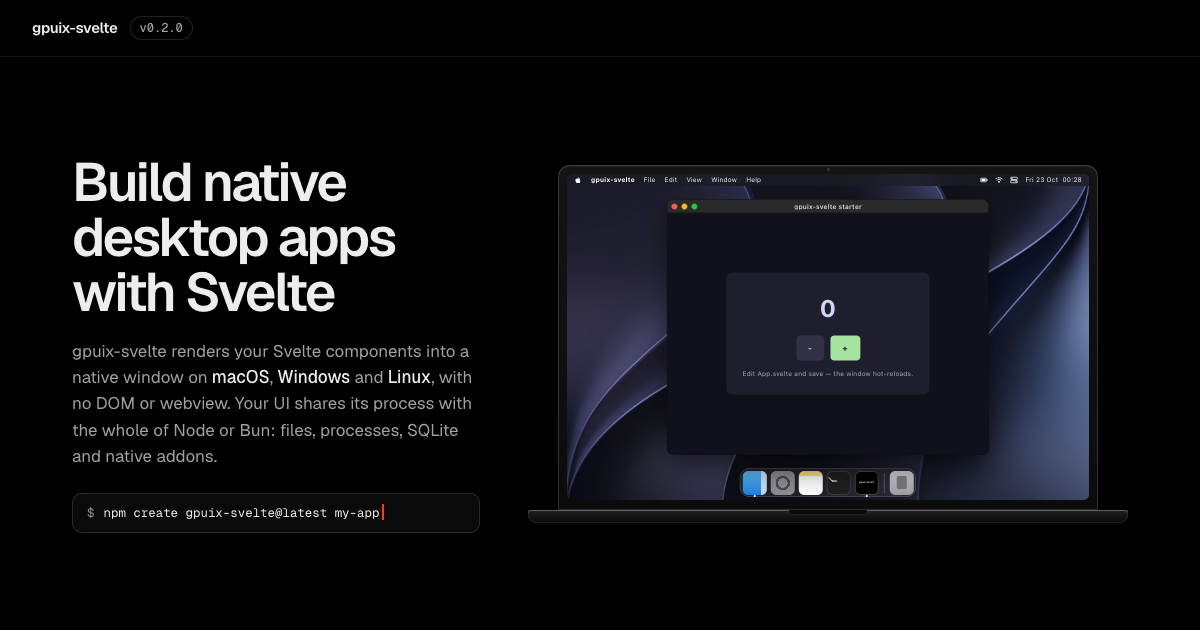
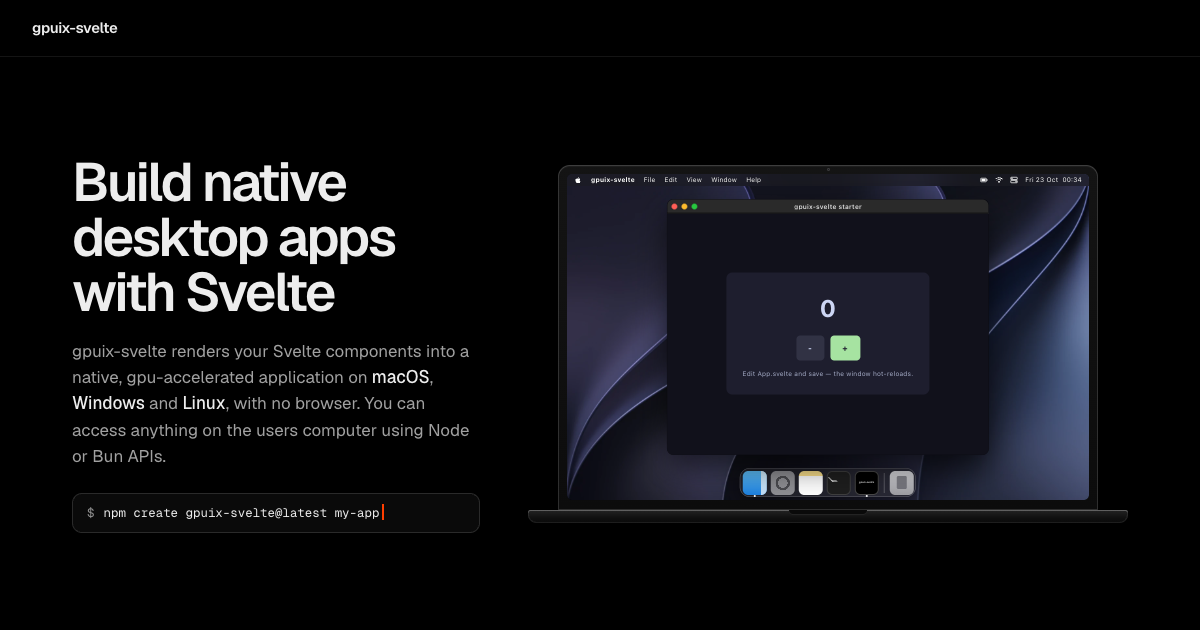
wip

Changed region(s): [[0.0617, 0.573, 0.4008, 0.754], [0.1233, 0.0302, 0.1542, 0.0603]]

diff --git a/homepage/logos/index.html b/homepage/logos/index.html
@@ -1,0 +1,162 @@
+<!doctype html>
+<html lang="en">
+<head>
+<meta charset="utf-8">
+<meta name="viewport" content="width=device-width, initial-scale=1">
+<title>gpuix-svelte · Logo candidates</title>
+<meta name="robots" content="noindex">
+<meta name="color-scheme" content="dark">
+<link rel="icon" href="data:,">
+<style>
+@font-face{font-family:Geist;src:url(../assets/fonts/Geist-Variable.woff2) format("woff2");font-weight:100 900;font-display:swap}
+@font-face{font-family:"Geist Mono";src:url(../assets/fonts/GeistMono-Variable.woff2) format("woff2");font-weight:100 900;font-display:swap}
+:root{--bg:#000;--s1:#0a0a0a;--line:rgba(255,255,255,.08);--line-2:rgba(255,255,255,.13);--text:#ededed;--text-2:#a1a1a1;--text-3:#8f8f8f;--accent:#ff3e00;--sans:Geist,ui-sans-serif,system-ui,sans-serif;--mono:"Geist Mono",ui-monospace,monospace}
+*{box-sizing:border-box}
+body{margin:0;background:var(--bg);color:var(--text);font:400 15px/1.6 var(--sans);-webkit-font-smoothing:antialiased}
+a{color:inherit}
+.wrap{max-width:1200px;margin:0 auto;padding:0 32px}
+.top{border-bottom:1px solid var(--line)}
+.nav{display:flex;align-items:center;justify-content:space-between;height:56px}
+.nav a{font-weight:600;font-size:15px;letter-spacing:-.02em;text-decoration:none}
+.nav span{font-size:14px;color:var(--text-2)}
+h1{margin:48px 0 12px;font-size:clamp(30px,3.4vw,44px);line-height:1.1;letter-spacing:-.036em;font-weight:600}
+.lead{max-width:44em;margin:0;color:var(--text-2);text-wrap:pretty}
+.row{display:flex;flex-wrap:wrap;align-items:center;gap:14px;margin:36px 0 56px;padding:18px 20px;border:1px solid var(--line-2);border-radius:12px;background:var(--s1)}
+.row b{flex:0 0 100%;font-size:12px;font-weight:500;letter-spacing:.02em;text-transform:uppercase;color:var(--text-3)}
+.row svg{width:24px;height:24px;color:#fff}
+.row i{display:grid;place-items:center;width:40px;height:40px;border-radius:9px;background:#000;border:1px solid var(--line)}
+.row i.lt{background:#fff;border-color:#ddd}
+.row i.lt svg{color:#111}
+.grid{display:grid;grid-template-columns:repeat(2,minmax(0,1fr));gap:28px;margin:0 0 80px;padding:0;list-style:none}
+.card{display:grid;grid-template-columns:auto minmax(0,1fr);gap:16px 24px;padding:24px;border:1px solid var(--line-2);border-radius:14px;background:var(--s1)}
+.tiles{display:grid;grid-template-columns:repeat(2,auto);gap:10px;align-content:start}
+.tile{display:grid;place-items:center;width:128px;height:128px;border-radius:24px;background:#000;border:1px solid var(--line-2);color:#fff}
+.tile svg{width:96px;height:96px}
+.tile.lt{background:#fff;border-color:#ddd;color:#111}
+.small{grid-column:1/-1;display:flex;align-items:center;gap:14px;height:40px;padding:0 12px;border-radius:9px;background:#000;border:1px solid var(--line);color:#fff}
+.small svg{display:block;color:#fff}
+.small .s32{width:32px;height:32px}
+.small .s16{width:16px;height:16px}
+.small em{font:400 11px/1 var(--mono);color:var(--text-3);font-style:normal}
+.small i{width:1px;height:20px;background:var(--line-2)}
+.card h2{margin:4px 0 6px;font-size:19px;line-height:1.25;letter-spacing:-.02em;font-weight:600}
+.card h2 small{margin-right:10px;font:500 12px/1 var(--mono);color:var(--text-3);letter-spacing:0}
+.card p{margin:0 0 10px;font-size:14px;line-height:1.55;color:var(--text-2);text-wrap:pretty}
+.card p:last-child{margin:0}
+.card p b{font-weight:500;color:var(--text)}
+.foot{padding:28px 0 48px;border-top:1px solid var(--line);font-size:13px;color:var(--text-3)}
+@media (max-width:899px){
+.wrap{padding:0 16px}
+.grid{grid-template-columns:minmax(0,1fr)}
+}
+@media (max-width:520px){
+.card{grid-template-columns:minmax(0,1fr)}
+.tiles{grid-template-columns:repeat(2,1fr)}
+.tile{width:100%;height:auto;aspect-ratio:1}
+}
+</style>
+</head>
+<body>
+<svg width="0" height="0" style="position:absolute" aria-hidden="true">
+<symbol id="l1" viewBox="0 0 64 64"><rect x="6" y="10" width="52" height="44" rx="9" fill="#ff3e00"/><path d="M6 23h52" stroke="currentColor" stroke-width="2.5" stroke-opacity=".9"/><circle cx="14.5" cy="16.5" r="2.4" fill="currentColor"/><circle cx="22" cy="16.5" r="2.4" fill="currentColor"/><circle cx="29.5" cy="16.5" r="2.4" fill="currentColor"/></symbol>
+<symbol id="l2" viewBox="0 0 64 64"><path d="M32 11 56 51H8Z" fill="#ff3e00" stroke="#ff3e00" stroke-width="7" stroke-linejoin="round"/></symbol>
+<symbol id="l3" viewBox="0 0 64 64"><rect x="24" y="7" width="32" height="32" rx="7" fill="none" stroke="currentColor" stroke-opacity=".35" stroke-width="3"/><rect x="16" y="15" width="32" height="32" rx="7" fill="none" stroke="currentColor" stroke-opacity=".7" stroke-width="3"/><rect x="8" y="23" width="32" height="32" rx="7" fill="#ff3e00"/></symbol>
+<symbol id="l4" viewBox="0 0 64 64"><circle cx="29" cy="27" r="13" fill="none" stroke="#ff3e00" stroke-width="8"/><path d="M42 27v17c0 9-6 13-15 13" fill="none" stroke="#ff3e00" stroke-width="8" stroke-linecap="round"/></symbol>
+<symbol id="l5" viewBox="0 0 64 64"><rect x="2" y="2" width="60" height="60" rx="14" fill="#000"/><rect x="2.75" y="2.75" width="58.5" height="58.5" rx="13.25" fill="none" stroke="#fff" stroke-opacity=".32" stroke-width="1.5"/><text x="32" y="35.2" text-anchor="middle" font-family="Geist, ui-sans-serif, system-ui, sans-serif" font-weight="600" font-size="8.6" textLength="46" lengthAdjust="spacingAndGlyphs" fill="#fff">gpuix-svelte</text></symbol>
+<symbol id="l6" viewBox="0 0 64 64"><path d="M19 15 7 32l12 17M45 15l12 17-12 17" fill="none" stroke="currentColor" stroke-width="5.5" stroke-linecap="round" stroke-linejoin="round"/><rect x="24" y="21" width="16" height="22" rx="4" fill="#ff3e00"/></symbol>
+<symbol id="l7" viewBox="0 0 64 64"><rect x="9" y="9" width="21" height="21" rx="5.5" fill="currentColor"/><rect x="34" y="9" width="21" height="21" rx="5.5" fill="currentColor"/><rect x="9" y="34" width="21" height="21" rx="5.5" fill="currentColor"/><rect x="34" y="34" width="21" height="21" rx="5.5" fill="#ff3e00"/></symbol>
+<symbol id="l8" viewBox="0 0 64 64"><clipPath id="l8c"><rect x="6" y="6" width="52" height="52" rx="13"/></clipPath><g clip-path="url(#l8c)"><rect x="6" y="6" width="52" height="52" fill="#ff3e00"/><path d="M6 6h52L6 58Z" fill="currentColor"/></g></symbol>
+<symbol id="l9" viewBox="0 0 64 64"><path d="M38.8 13.2A20 20 0 1 1 19.1 16.7" fill="none" stroke="#ff3e00" stroke-width="7" stroke-linecap="round"/><path d="M33.5 5.5 43 12.5l-6.5 9" fill="none" stroke="#ff3e00" stroke-width="7" stroke-linecap="round" stroke-linejoin="round"/><rect x="24" y="24" width="16" height="16" rx="4" fill="currentColor"/></symbol>
+<symbol id="l10" viewBox="0 0 64 64"><path d="M15 7v40l11-9.5L33.5 55l8.5-3.8-7.5-17H47Z" fill="#ff3e00" stroke="#ff3e00" stroke-width="4" stroke-linejoin="round"/></symbol>
+</svg>
+
+<header class="top"><div class="wrap nav"><a href="../">gpuix-svelte</a><span>Logo candidates</span></div></header>
+
+<main class="wrap">
+<h1>Ten marks for gpuix-svelte</h1>
+<p class="lead">Each one is a single SVG, drawn so it survives a 16 px favicon, a 512 px app icon and a monochrome print. Neutral parts use the surrounding text colour, so the same file works on black and on white; the accent is Svelte’s orange, #ff3e00. Pick one and the rest get deleted.</p>
+
+<div class="row" aria-label="All ten at 24 pixels">
+<b>At a glance</b>
+<i><svg><use href="#l1"/></svg></i><i><svg><use href="#l2"/></svg></i><i><svg><use href="#l3"/></svg></i><i><svg><use href="#l4"/></svg></i><i><svg><use href="#l5"/></svg></i><i><svg><use href="#l6"/></svg></i><i><svg><use href="#l7"/></svg></i><i><svg><use href="#l8"/></svg></i><i><svg><use href="#l9"/></svg></i><i><svg><use href="#l10"/></svg></i>
+<i class="lt"><svg><use href="#l1"/></svg></i><i class="lt"><svg><use href="#l2"/></svg></i><i class="lt"><svg><use href="#l3"/></svg></i><i class="lt"><svg><use href="#l4"/></svg></i><i class="lt"><svg><use href="#l5"/></svg></i><i class="lt"><svg><use href="#l6"/></svg></i><i class="lt"><svg><use href="#l7"/></svg></i><i class="lt"><svg><use href="#l8"/></svg></i><i class="lt"><svg><use href="#l9"/></svg></i><i class="lt"><svg><use href="#l10"/></svg></i>
+</div>
+
+<ul class="grid">
+
+<li class="card">
+<div class="tiles"><div class="tile"><svg><use href="#l1"/></svg></div><div class="tile lt"><svg><use href="#l1"/></svg></div><div class="small"><svg class="s32"><use href="#l1"/></svg><i></i><svg class="s16"><use href="#l1"/></svg><em>32 / 16 px</em></div></div>
+<div><h2><small>01</small>Window</h2>
+<p><b>A native window, filled with Svelte orange.</b> The title bar and three dots are the one shape every desktop user reads as “an app window”, and the orange body says what is inside it.</p>
+<p>It is literal, which is its strength: the project’s whole pitch is that Svelte ends up in a real window. The dots still read at 16 px. The risk is looking like a generic “desktop app” icon rather than a brand.</p></div>
+</li>
+
+<li class="card">
+<div class="tiles"><div class="tile"><svg><use href="#l2"/></svg></div><div class="tile lt"><svg><use href="#l2"/></svg></div><div class="small"><svg class="s32"><use href="#l2"/></svg><i></i><svg class="s16"><use href="#l2"/></svg><em>32 / 16 px</em></div></div>
+<div><h2><small>02</small>Triangle</h2>
+<p><b>The GPU’s one primitive.</b> Everything GPUI paints is triangles, and a single orange triangle is the most honest way to say “drawn on the GPU”. It is also a delta, the symbol for change, which is what a reactive framework ships every frame.</p>
+<p>Scales to any size and stays one colour. It is also the most anonymous of the ten: many graphics projects use a triangle, so it needs the wordmark next to it to be recognisable.</p></div>
+</li>
+
+<li class="card">
+<div class="tiles"><div class="tile"><svg><use href="#l3"/></svg></div><div class="tile lt"><svg><use href="#l3"/></svg></div><div class="small"><svg class="s32"><use href="#l3"/></svg><i></i><svg class="s16"><use href="#l3"/></svg><em>32 / 16 px</em></div></div>
+<div><h2><small>03</small>Panes</h2>
+<p><b>Three layers, the front one solid.</b> Component, shadow tree, native window: the mark draws the pipeline as depth, with the two outlines fading back and the orange pane in front being the one you can touch.</p>
+<p>Reads as stacked windows too, which fits a desktop toolkit. It has the most parts, and at 16 px the back outlines blur into a halo, so the favicon would be the front square alone.</p></div>
+</li>
+
+<li class="card">
+<div class="tiles"><div class="tile"><svg><use href="#l4"/></svg></div><div class="tile lt"><svg><use href="#l4"/></svg></div><div class="small"><svg class="s32"><use href="#l4"/></svg><i></i><svg class="s16"><use href="#l4"/></svg><em>32 / 16 px</em></div></div>
+<div><h2><small>04</small>Monogram g</h2>
+<p><b>A geometric lowercase g.</b> Ring plus hook, two strokes of equal weight, in the spirit of Geist, the typeface the site is set in. The first letter of gpuix and nothing else.</p>
+<p>Ownable and quiet; a letter mark is the usual choice for a library. It says nothing about windows or GPUs, so it leans on the name for meaning, and the hook thins out at 16 px.</p></div>
+</li>
+
+<li class="card">
+<div class="tiles"><div class="tile"><svg><use href="#l5"/></svg></div><div class="tile lt"><svg><use href="#l5"/></svg></div><div class="small"><svg class="s32"><use href="#l5"/></svg><i></i><svg class="s16"><use href="#l5"/></svg><em>32 / 16 px</em></div></div>
+<div><h2><small>05</small>Wordmark tile</h2>
+<p><b>The name on a black square.</b> This is what the site already uses for the favicon and for the app icons in the Shipping section, so choosing it changes nothing and keeps the mark and the name identical.</p>
+<p>Unambiguous at 48 px and above, where the text is legible; below that it becomes a black square with a grey smudge. No colour, which is either restraint or a missed chance, depending on taste.</p></div>
+</li>
+
+<li class="card">
+<div class="tiles"><div class="tile"><svg><use href="#l6"/></svg></div><div class="tile lt"><svg><use href="#l6"/></svg></div><div class="small"><svg class="s32"><use href="#l6"/></svg><i></i><svg class="s16"><use href="#l6"/></svg><em>32 / 16 px</em></div></div>
+<div><h2><small>06</small>Brackets</h2>
+<p><b>Markup, with a window where the tag name goes.</b> The angle brackets are the Svelte side (you write components), the orange block between them is the native side (you get a window). Read left to right it is the whole renderer in one glyph.</p>
+<p>Developers decode brackets instantly, and it is the only candidate that shows both halves of the project. At 16 px the brackets thin to hairlines, so the favicon needs a heavier cut.</p></div>
+</li>
+
+<li class="card">
+<div class="tiles"><div class="tile"><svg><use href="#l7"/></svg></div><div class="tile lt"><svg><use href="#l7"/></svg></div><div class="small"><svg class="s32"><use href="#l7"/></svg><i></i><svg class="s16"><use href="#l7"/></svg><em>32 / 16 px</em></div></div>
+<div><h2><small>07</small>Tiles</h2>
+<p><b>Four panes, one lit.</b> A window grid, a flexbox layout, GPU tiles: the two-by-two reads as all of them, and the single orange tile marks the one thing that is different, your Svelte component.</p>
+<p>The most robust of the ten at small sizes, since it is four blobs. It sits close to the Windows logo and to a dozen dashboard products, which is the reason to be careful with it.</p></div>
+</li>
+
+<li class="card">
+<div class="tiles"><div class="tile"><svg><use href="#l8"/></svg></div><div class="tile lt"><svg><use href="#l8"/></svg></div><div class="small"><svg class="s32"><use href="#l8"/></svg><i></i><svg class="s16"><use href="#l8"/></svg><em>32 / 16 px</em></div></div>
+<div><h2><small>08</small>Split square</h2>
+<p><b>One square, two halves.</b> JavaScript and the GPU share one process, and the diagonal is the batch boundary between them: the neutral half is yours, the orange half is drawn. It is an app icon shape by construction.</p>
+<p>Bold, flat and impossible to misrender at any size. It is also the most abstract, so it carries no hint of windows or Svelte beyond the colour.</p></div>
+</li>
+
+<li class="card">
+<div class="tiles"><div class="tile"><svg><use href="#l9"/></svg></div><div class="tile lt"><svg><use href="#l9"/></svg></div><div class="small"><svg class="s32"><use href="#l9"/></svg><i></i><svg class="s16"><use href="#l9"/></svg><em>32 / 16 px</em></div></div>
+<div><h2><small>09</small>Reload</h2>
+<p><b>Save, and the window comes back.</b> An orange arc around a small window: hot reload, the first thing the starter shows you, and the frame loop that redraws every tick.</p>
+<p>Friendly and dynamic, and the arrow survives 16 px better than expected. The shape is shared with every “refresh” button on earth, so on its own it reads as an action, not a product.</p></div>
+</li>
+
+<li class="card">
+<div class="tiles"><div class="tile"><svg><use href="#l10"/></svg></div><div class="tile lt"><svg><use href="#l10"/></svg></div><div class="small"><svg class="s32"><use href="#l10"/></svg><i></i><svg class="s16"><use href="#l10"/></svg><em>32 / 16 px</em></div></div>
+<div><h2><small>10</small>Pointer</h2>
+<p><b>The desktop’s own cursor, in orange.</b> Nothing says “not a web page” like the arrow that lives outside the browser. It points at the one fact the headline makes: these are desktop apps.</p>
+<p>Instantly recognisable and strong at every size. Its weakness is that it is borrowed: the arrow belongs to the operating system, so it looks like a tool for automation or remote control as readily as a UI framework.</p></div>
+</li>
+
+</ul>
+</main>
+
+<footer class="foot"><div class="wrap">A working page for picking the mark. Not linked from the site, and <code>noindex</code>.</div></footer>
+</body>
+</html>

diff --git a/scripts/docs.ts b/scripts/docs.ts
@@ -2,10 +2,13 @@
 // coloured in the browser by docs/assets/prism.js, a vendored Prism build. Beside each page goes a
 // standalone markdown copy, indexed by llms.txt (https://llmstxt.org) for coding agents. The
 // homepage (homepage/) is copied to the root, so the README renders as overview.html. --serve then
-// serves dist/docs on PORT (default 4321) and opens it in the browser.
+// serves dist/docs on PORT (default 4321), opens it in the browser (--no-open skips that) and
+// rebuilds whenever README.md, docs/, homepage/ or this script changes: the parent only watches
+// and restarts a child (--serve-child) that builds and serves, so an edit to the template here
+// takes effect too and a failed build just waits for the next save.
 
-import { spawn } from 'node:child_process';
-import { copyFileSync, cpSync, createReadStream, existsSync, mkdirSync, readdirSync, readFileSync, rmSync, statSync, writeFileSync } from 'node:fs';
+import { spawn, type ChildProcess } from 'node:child_process';
+import { copyFileSync, cpSync, createReadStream, existsSync, mkdirSync, readdirSync, readFileSync, rmSync, statSync, watch, writeFileSync } from 'node:fs';
 import { createServer } from 'node:http';
 import type { AddressInfo } from 'node:net';
 import { basename, extname, join, posix, sep } from 'node:path';
@@ -376,27 +379,85 @@ ${next ? `<a class="next" href="${next.name}.html" rel="next"><span>Next</span>$
 `;
 }
 
-rmSync(out_dir, { recursive: true, force: true });
-mkdirSync(out_dir, { recursive: true });
-for (const p of PAGES) {
-	writeFileSync(join(out_dir, `${p.name}.html`), page(p, render(p.source)));
-	writeFileSync(join(out_dir, `${p.name}.md`), markdown(p.source));
+function build() {
+	rmSync(out_dir, { recursive: true, force: true });
+	mkdirSync(out_dir, { recursive: true });
+	for (const p of PAGES) {
+		writeFileSync(join(out_dir, `${p.name}.html`), page(p, render(p.source)));
+		writeFileSync(join(out_dir, `${p.name}.md`), markdown(p.source));
+	}
+	writeFileSync(join(out_dir, 'llms.txt'), llms_txt());
+	writeFileSync(join(out_dir, 'llms-full.txt'), PAGES.map((p) => markdown(p.source).trim()).join('\n\n---\n\n') + '\n');
+	copyFileSync(join(root, 'docs/assets/prism.js'), join(out_dir, 'prism.js'));
+	copyFileSync(join(root, 'docs/assets/og-docs.png'), join(out_dir, 'og-docs.png'));
+	cpSync(join(root, 'docs/assets/fonts'), join(out_dir, 'fonts'), { recursive: true });
+	// A name the homepage shares with the docs output fails the build instead of silently replacing one of them.
+	for (const entry of readdirSync(join(root, 'homepage')).filter((e) => !e.startsWith('.'))) {
+		if (existsSync(join(out_dir, entry))) throw new Error(`[docs] homepage/${entry} collides with the docs output`);
+		cpSync(join(root, 'homepage', entry), join(out_dir, entry), { recursive: true, filter: (src) => !basename(src).startsWith('.') });
+	}
+	console.log(`[docs] ${PAGES.length} pages, their markdown and llms.txt, with homepage/ at the root → ${out_dir}`);
 }
-writeFileSync(join(out_dir, 'llms.txt'), llms_txt());
-writeFileSync(join(out_dir, 'llms-full.txt'), PAGES.map((p) => markdown(p.source).trim()).join('\n\n---\n\n') + '\n');
-copyFileSync(join(root, 'docs/assets/prism.js'), join(out_dir, 'prism.js'));
-copyFileSync(join(root, 'docs/assets/og-docs.png'), join(out_dir, 'og-docs.png'));
-cpSync(join(root, 'docs/assets/fonts'), join(out_dir, 'fonts'), { recursive: true });
-// A name the homepage shares with the docs output fails the build instead of silently replacing one of them.
-for (const entry of readdirSync(join(root, 'homepage')).filter((e) => !e.startsWith('.'))) {
-	if (existsSync(join(out_dir, entry))) throw new Error(`[docs] homepage/${entry} collides with the docs output`);
-	cpSync(join(root, 'homepage', entry), join(out_dir, entry), { recursive: true, filter: (src) => !basename(src).startsWith('.') });
+
+if (process.argv.includes('--serve')) {
+	supervise();
+} else {
+	build();
+	if (process.argv.includes('--serve-child')) serve(process.argv.includes('--open'));
 }
-console.log(`[docs] ${PAGES.length} pages, their markdown and llms.txt, with homepage/ at the root → ${out_dir}`);
 
-if (process.argv.includes('--serve')) serve();
+function supervise() {
+	const script = fileURLToPath(import.meta.url);
+	let child: ChildProcess | undefined;
+	let timer: ReturnType<typeof setTimeout> | undefined;
+	let busy = false;
+	let again = false;
+	const start = (open: boolean) => {
+		child = spawn(process.execPath, [script, '--serve-child', ...(open ? ['--open'] : [])], { stdio: 'inherit' });
+	};
+	const cycle = async () => {
+		if (busy) {
+			again = true;
+			return;
+		}
+		busy = true;
+		console.log('[docs] change detected, rebuilding');
+		// The port is free only once the old child has exited.
+		const old = child;
+		if (old && old.exitCode === null) {
+			const gone = new Promise((r) => old.once('exit', r));
+			old.kill();
+			await gone;
+		}
+		start(false);
+		busy = false;
+		if (again) {
+			again = false;
+			void cycle();
+		}
+	};
+	const restart = () => {
+		clearTimeout(timer);
+		timer = setTimeout(cycle, 300);
+	};
+	for (const path of ['README.md', 'docs', 'homepage', 'scripts/docs.ts']) {
+		const target = join(root, path);
+		watch(target, { recursive: statSync(target).isDirectory() }, (_, file) => {
+			if (!file || !basename(file).startsWith('.')) restart();
+		});
+	}
+	// A signal ends the parent without an 'exit' event, so the child is stopped by hand.
+	for (const signal of ['SIGINT', 'SIGTERM'] as const) {
+		process.on(signal, () => {
+			child?.kill();
+			process.exit();
+		});
+	}
+	process.on('exit', () => child?.kill());
+	start(!process.argv.includes('--no-open'));
+}
 
-function serve() {
+function serve(open: boolean) {
 	const types: Record<string, string> = {
 		'.html': 'text/html; charset=utf-8',
 		'.md': 'text/markdown; charset=utf-8',
@@ -420,6 +481,7 @@ function serve() {
 	server.listen(Number(process.env.PORT || 4321), '127.0.0.1', () => {
 		const url = `http://127.0.0.1:${(server.address() as AddressInfo).port}/`;
 		console.log(`[docs] ${url}`);
+		if (!open) return;
 		// `start` is a cmd.exe builtin, and its first quoted argument is the window title.
 		const [command, ...args] =
 			process.platform === 'darwin' ? ['open', url] : process.platform === 'win32' ? ['cmd', '/c', 'start', '', url] : ['xdg-open', url];

diff --git a/homepage/index.html b/homepage/index.html
@@ -72,8 +72,6 @@ ul[role=list]{list-style:none}
 .nav{display:flex;align-items:center;justify-content:space-between;gap:16px;height:56px;padding-right:calc(var(--gut) + max(0px,var(--corner) - max(var(--gut),(100vw - var(--max)) / 2)))}
 .brand{display:flex;align-items:center;gap:12px;min-width:0}
 .brand>a:first-child{font-weight:600;font-size:15px;letter-spacing:-.02em;text-decoration:none;white-space:nowrap}
-.ver{font:500 12px/1 var(--mono);color:var(--text-2);border:1px solid var(--line-2);border-radius:999px;padding:5px 9px;text-decoration:none;white-space:nowrap}
-.ver:hover{color:var(--text);border-color:var(--line-3)}
 .nav ul{display:flex;gap:26px;margin:0;padding:0;list-style:none}
 .nav ul a{font-size:14px;color:var(--text-2);text-decoration:none;white-space:nowrap}
 .nav ul a:hover{color:var(--text)}
@@ -311,15 +309,15 @@ h1{font-size:clamp(38px,4.75vw,66px);line-height:1.02;letter-spacing:-.046em;tex
 .osw-gx svg{display:block;width:calc(16 * var(--vp));height:calc(16 * var(--vp));fill:none;stroke:currentColor;stroke-width:1.6;stroke-linecap:round}
 
 .mk{display:flex;align-items:center;justify-content:center;height:calc(480 * var(--vp));background:#11111b;font:400 calc(16 * var(--vp))/1.6 var(--sys);color:#cdd6f4}
-.mk-card{display:flex;flex-direction:column;align-items:center;gap:calc(16 * var(--vp));padding:calc(32 * var(--vp));border-radius:calc(12 * var(--vp));background:#1e1e2e}
-.mk-count{font-size:calc(48 * var(--vp));font-weight:700;color:#cdd6f4;font-variant-numeric:tabular-nums}
-.mk-row{display:flex;gap:calc(12 * var(--vp))}
-.mk-btn{appearance:none;margin:0;border:0;padding:calc(12 * var(--vp)) calc(24 * var(--vp));border-radius:calc(8 * var(--vp));background:#313244;color:#cdd6f4;font:700 calc(16 * var(--vp))/1.6 var(--sys);cursor:pointer;transition:background-color var(--osw-q) ease}
+.mk-card{display:flex;flex-direction:column;align-items:center;gap:calc(24 * var(--vp));padding:calc(44 * var(--vp)) calc(56 * var(--vp));border-radius:calc(18 * var(--vp));background:#1e1e2e}
+.mk-count{font-size:calc(104 * var(--vp));line-height:1.2;font-weight:700;color:#cdd6f4;font-variant-numeric:tabular-nums}
+.mk-row{display:flex;gap:calc(20 * var(--vp))}
+.mk-btn{appearance:none;margin:0;border:0;padding:calc(16 * var(--vp)) calc(48 * var(--vp));border-radius:calc(14 * var(--vp));background:#313244;color:#cdd6f4;font:700 calc(34 * var(--vp))/1.4 var(--sys);cursor:pointer;transition:background-color var(--osw-q) ease}
 .mk-btn:hover{background:#45475a}
 .mk-btn:focus-visible{outline:2px solid #cdd6f4;outline-offset:2px;border-radius:calc(8 * var(--vp))}
 .mk-btn.primary{background:#a6e3a1;color:#1e1e2e}
 .mk-btn.primary:hover{background:#94e2d5}
-.mk-hint{font-size:calc(13 * var(--vp));color:#a6adc8;white-space:nowrap}
+.mk-hint{font-size:calc(19 * var(--vp));color:#a6adc8;white-space:nowrap}
 
 .osw-mac{opacity:1;visibility:visible;transition:opacity var(--osw-h) ease var(--osw-h)}
 .lap:has([value=win]:checked) .osw-win{border-radius:calc(8 * var(--vp))}
@@ -732,9 +730,6 @@ h1{font-size:clamp(34px,10.4vw,44px)}
 @media (max-width:560px) and (hover:hover){
 .h-more{display:none}
 }
-@media (max-width:400px){
-.ver{display:none}
-}
 @media (max-width:380px){
 .nav ul{gap:14px}
 .bar .hint{display:none}
@@ -755,7 +750,7 @@ h1{font-size:clamp(34px,10.4vw,44px)}
 <i id="og" hidden></i>
 <header class="top">
 <nav class="wrap nav" aria-label="Main">
-<div class="brand"><a href="./">gpuix-svelte</a><a class="ver" href="https://github.com/khromov/gpuix-svelte/blob/main/CHANGELOG.md">v0.2.0</a></div>
+<div class="brand"><a href="./">gpuix-svelte</a></div>
 <ul>
 <li><a href="overview.html">Docs</a></li>
 <li><a href="#examples">Examples</a></li>
@@ -769,7 +764,7 @@ h1{font-size:clamp(34px,10.4vw,44px)}
 <div class="wrap">
 <h1 id="title">Build native desktop apps with Svelte</h1>
 <div class="lead">
-<p>gpuix-svelte renders your Svelte components into a native, gpu-accelerated application on <b>macOS</b>, <b>Windows</b> and <b>Linux</b>, with no browser. Your UI shares its process with the whole of Node or Bun: files, processes, SQLite and native addons.</p>
+<p>gpuix-svelte renders your Svelte components into a native, gpu-accelerated application on <b>macOS</b>, <b>Windows</b> and <b>Linux</b>, with no browser. You can access anything on the users computer using Node or Bun APIs.</p>
 <div class="act">
 <div class="install"><code><span class="pr" aria-hidden="true">$</span>npm create gpuix-svelte@latest my-app<span class="caret" aria-hidden="true"></span></code><button class="copy" type="button" data-copy="npm create gpuix-svelte@latest my-app" hidden>Copy</button></div>
 <div class="links"><a class="btn solid" href="overview.html">Read the docs</a><a class="btn" href="https://github.com/khromov/gpuix-svelte">View on GitHub</a></div>
@@ -819,7 +814,7 @@ h1{font-size:clamp(34px,10.4vw,44px)}
 <div class="osw-bar osw-gn"><span class="osw-title">gpuix-svelte starter</span><i class="osw-gx"><svg viewBox="0 0 16 16"><path d="M5 5l6 6m0-6l-6 6"/></svg></i></div>
 </div>
 <div class="mk" role="group" aria-label="The starter app’s counter">
-<div class="mk-card"><div class="mk-count" data-count aria-live="polite">0</div><div class="mk-row"><button class="mk-btn" type="button" data-step="-1" aria-label="Count down">-</button><button class="mk-btn primary" type="button" data-step="1" aria-label="Count up">+</button></div><div class="mk-hint">Edit App.svelte and save — the window hot-reloads.</div></div>
+<div class="mk-card"><div class="mk-count" data-count aria-live="polite">0</div><div class="mk-row"><button class="mk-btn" type="button" data-step="-1" aria-label="Count down">-</button><button class="mk-btn primary" type="button" data-step="1" aria-label="Count up">+</button></div><div class="mk-hint">Hello World from gpuix-svelte!</div></div>
 </div>
 </div>
 </div>

diff --git a/CLAUDE.md b/CLAUDE.md
@@ -101,7 +101,9 @@ npm run docs               # README.md + docs/*.md → static HTML in dist/docs 
                            # .github/workflows/docs.yml deploys it to GitHub Pages on push.
                            # A new docs page also needs an entry in scripts/docs.ts's PAGES
 npm run docs:serve         # the same build, then serves dist/docs at http://127.0.0.1:4321
-                           # (PORT overrides) and opens it in the browser
+                           # (PORT overrides) and opens it in the browser (-- --no-open skips
+                           # that); rebuilds on any change to README.md, docs/, homepage/ or
+                           # scripts/docs.ts by restarting a child that builds and serves
 npm run og                 # retakes homepage/og.png: headless Chrome over CDP (scripts/og.ts,
                            # $CHROME overrides the path) on index.html#og at 1200x630, device
                            # scale 2. og:docs does docs/assets/og-docs.png from the built overview.

diff --git a/docs/contributing.md b/docs/contributing.md
@@ -96,7 +96,9 @@ markdown copy of each page, an `llms.txt` index and an `llms-full.txt` for codin
 copies the homepage (`homepage/`) to the root, so the README renders as `overview.html`. The
 `docs` workflow publishes it to GitHub Pages on every push to `main` that touches any of them. A
 new page needs an entry in `PAGES` in [`scripts/docs.ts`](../scripts/docs.ts). `npm run docs:serve`
-builds it the same way, then serves it at http://127.0.0.1:4321 and opens it in your browser.
+builds it the same way, then serves it at http://127.0.0.1:4321 and opens it in your browser, and
+rebuilds whenever the README, `docs/`, `homepage/` or the script itself changes (reload the page to
+see it).
 
 The social preview images are screenshots: `npm run og` retakes `homepage/og.png` from the
 homepage's `#og` view, and `npm run og:docs` retakes `docs/assets/og-docs.png` from the built
